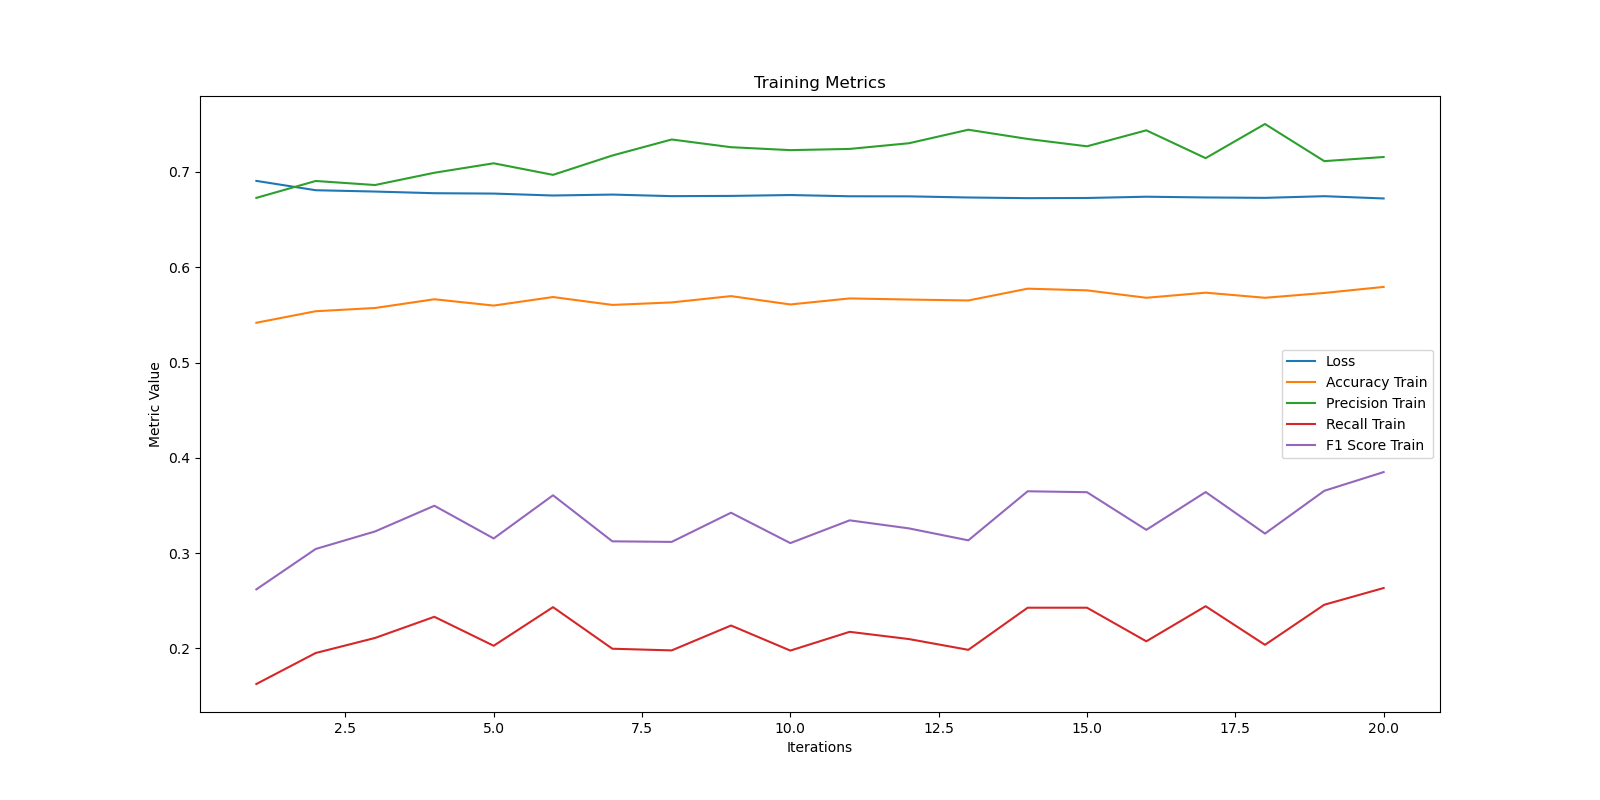
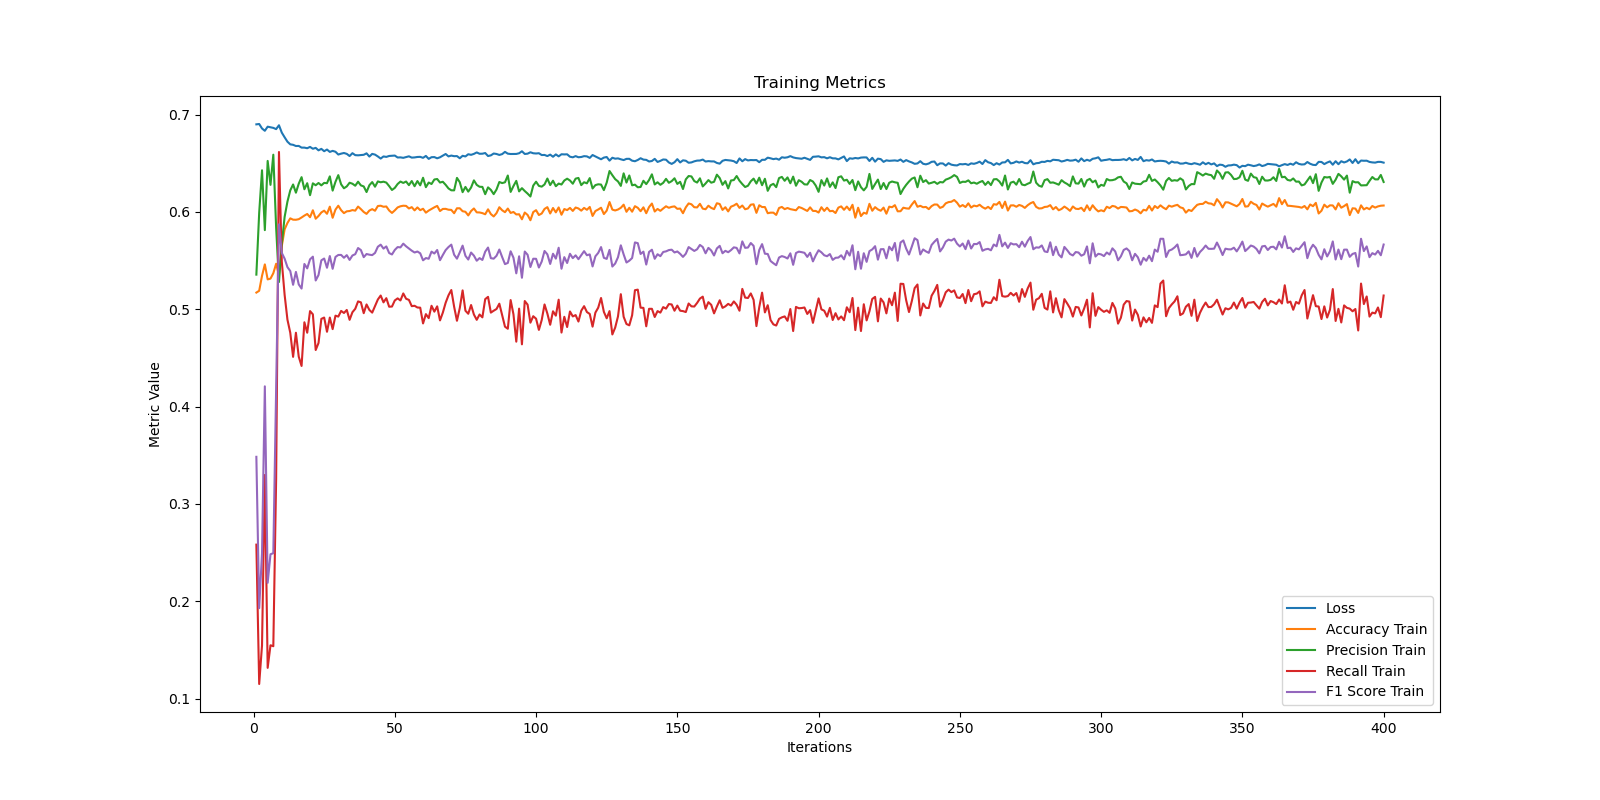
fix(RNN):fix some errors in  RNN

diff --git a/RNN.py b/RNN.py
@@ -105,8 +105,8 @@ class EEGTrustClassifier(nn.Module):
         x = x * attention_weights
         
         # Final Fully Connected Layers
-        x = self.silu(self.bn7(self.fc8(x)))
-        x = self.silu(self.bn7(self.fc8(x)))
+        x = self.silu(self.bn7(self.fc7(x)))
+        x = self.silu(self.bn8(self.fc8(x)))
         
         # Output Layer
         x = self.sigmoid(self.output(x))
@@ -133,7 +133,7 @@ plt.show()
 # Split dataset into training set and test set
 X = alpha_df[['Mean', 'Peak', 'Std', 'Kurtosis']]  # Features
 y = alpha_df['label']  # Labels
-X_train, X_test, y_train, y_test = train_test_split(X, y, test_size=0.25, random_state=42)
+X_train, X_test, y_train, y_test = train_test_split(X, y, test_size=0.25, random_state=42, stratify=y)
 #------------------------------Add Augmentation Approach-----------------------------------
 # Augmentation approach to balance the amount of high and low trust instances
 # include SMOTE to balance the dataset
@@ -162,7 +162,7 @@ test_dataset = TensorDataset(X_test_scaled, y_test)
 train_loader = DataLoader(train_dataset, batch_size=16, shuffle=True)
 test_loader = DataLoader(test_dataset, batch_size=16, shuffle=False)
 model = EEGTrustClassifier()
-criterion = nn.BCEWithLogitsLoss()
+criterion = nn.BCELoss()
 optimizer = optim.Adam(model.parameters(), lr=0.001)
 scheduler = optim.lr_scheduler.CosineAnnealingLR(optimizer, T_max=50, eta_min=1e-6)
 
@@ -173,7 +173,7 @@ mean_epoch_accuracy_train = []
 mean_epoch_precision_train = []
 mean_epoch_recall_train = []
 mean_epoch_f1_train = []
-num_epochs = 20
+num_epochs = 400
 for epoch in range(num_epochs):
     model.train()
     epoch_loss = 0
